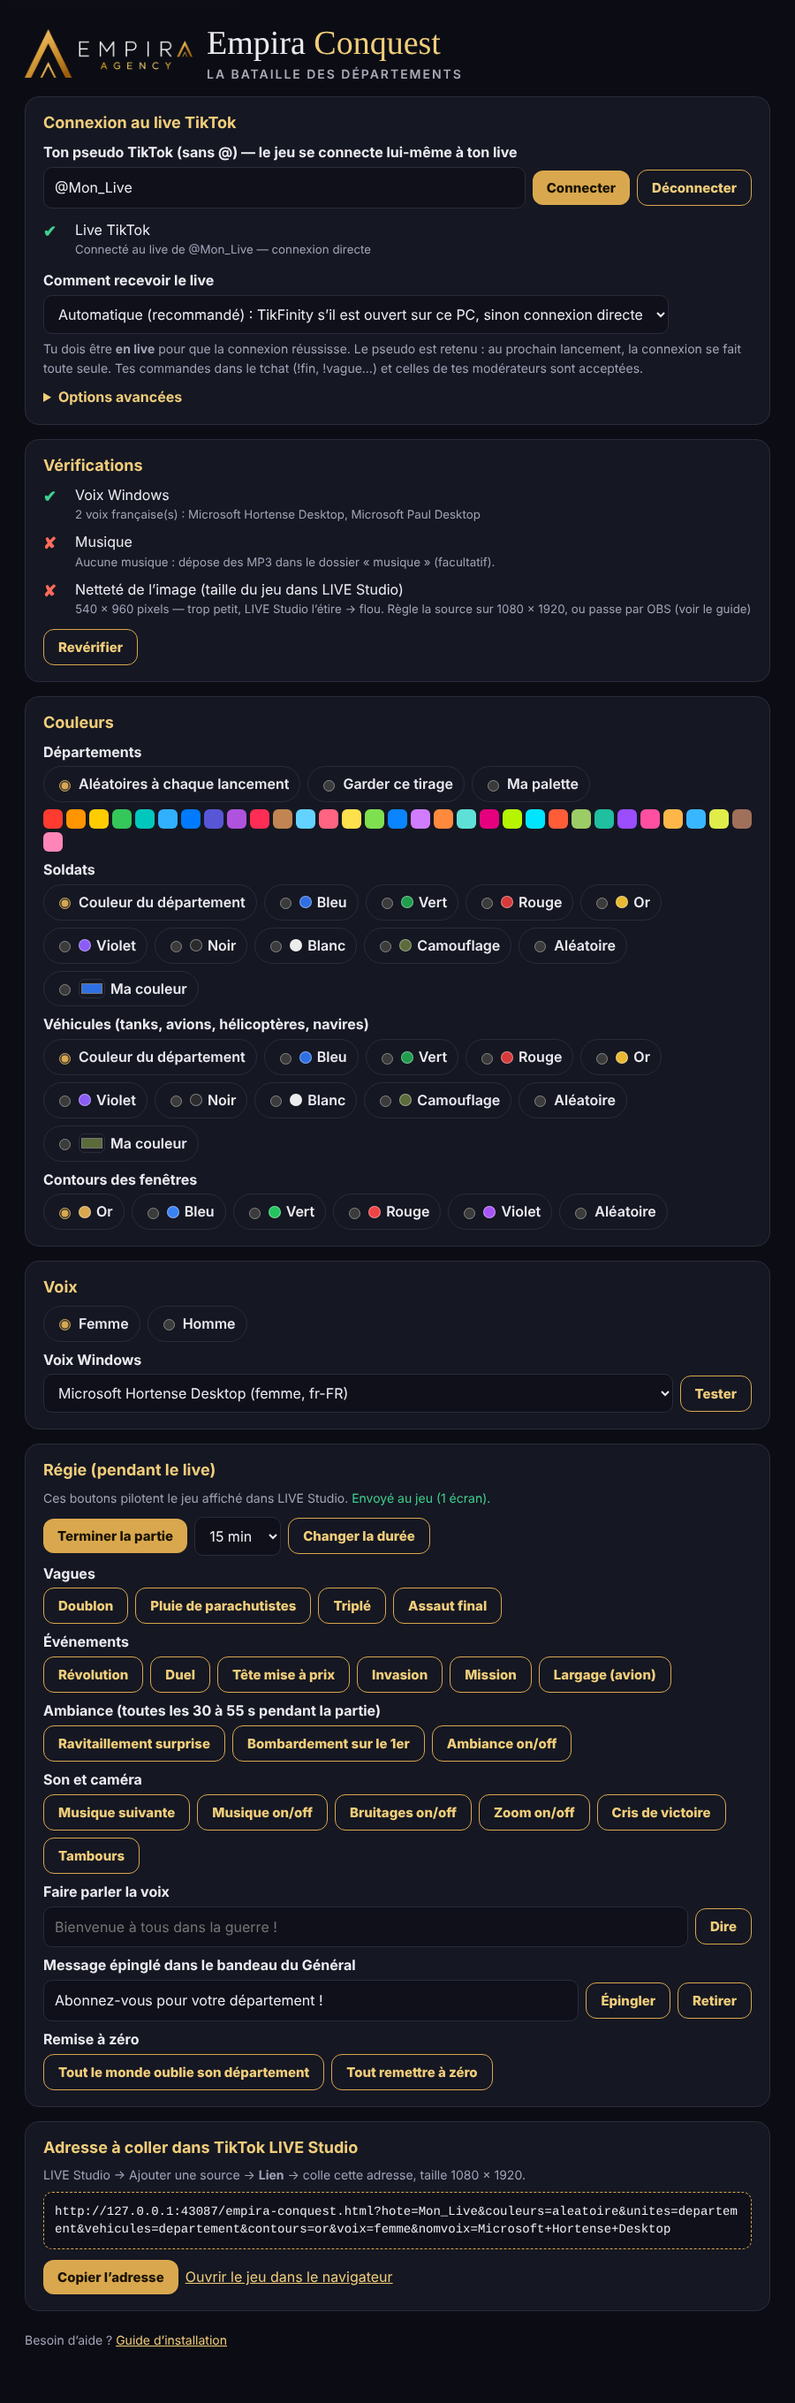
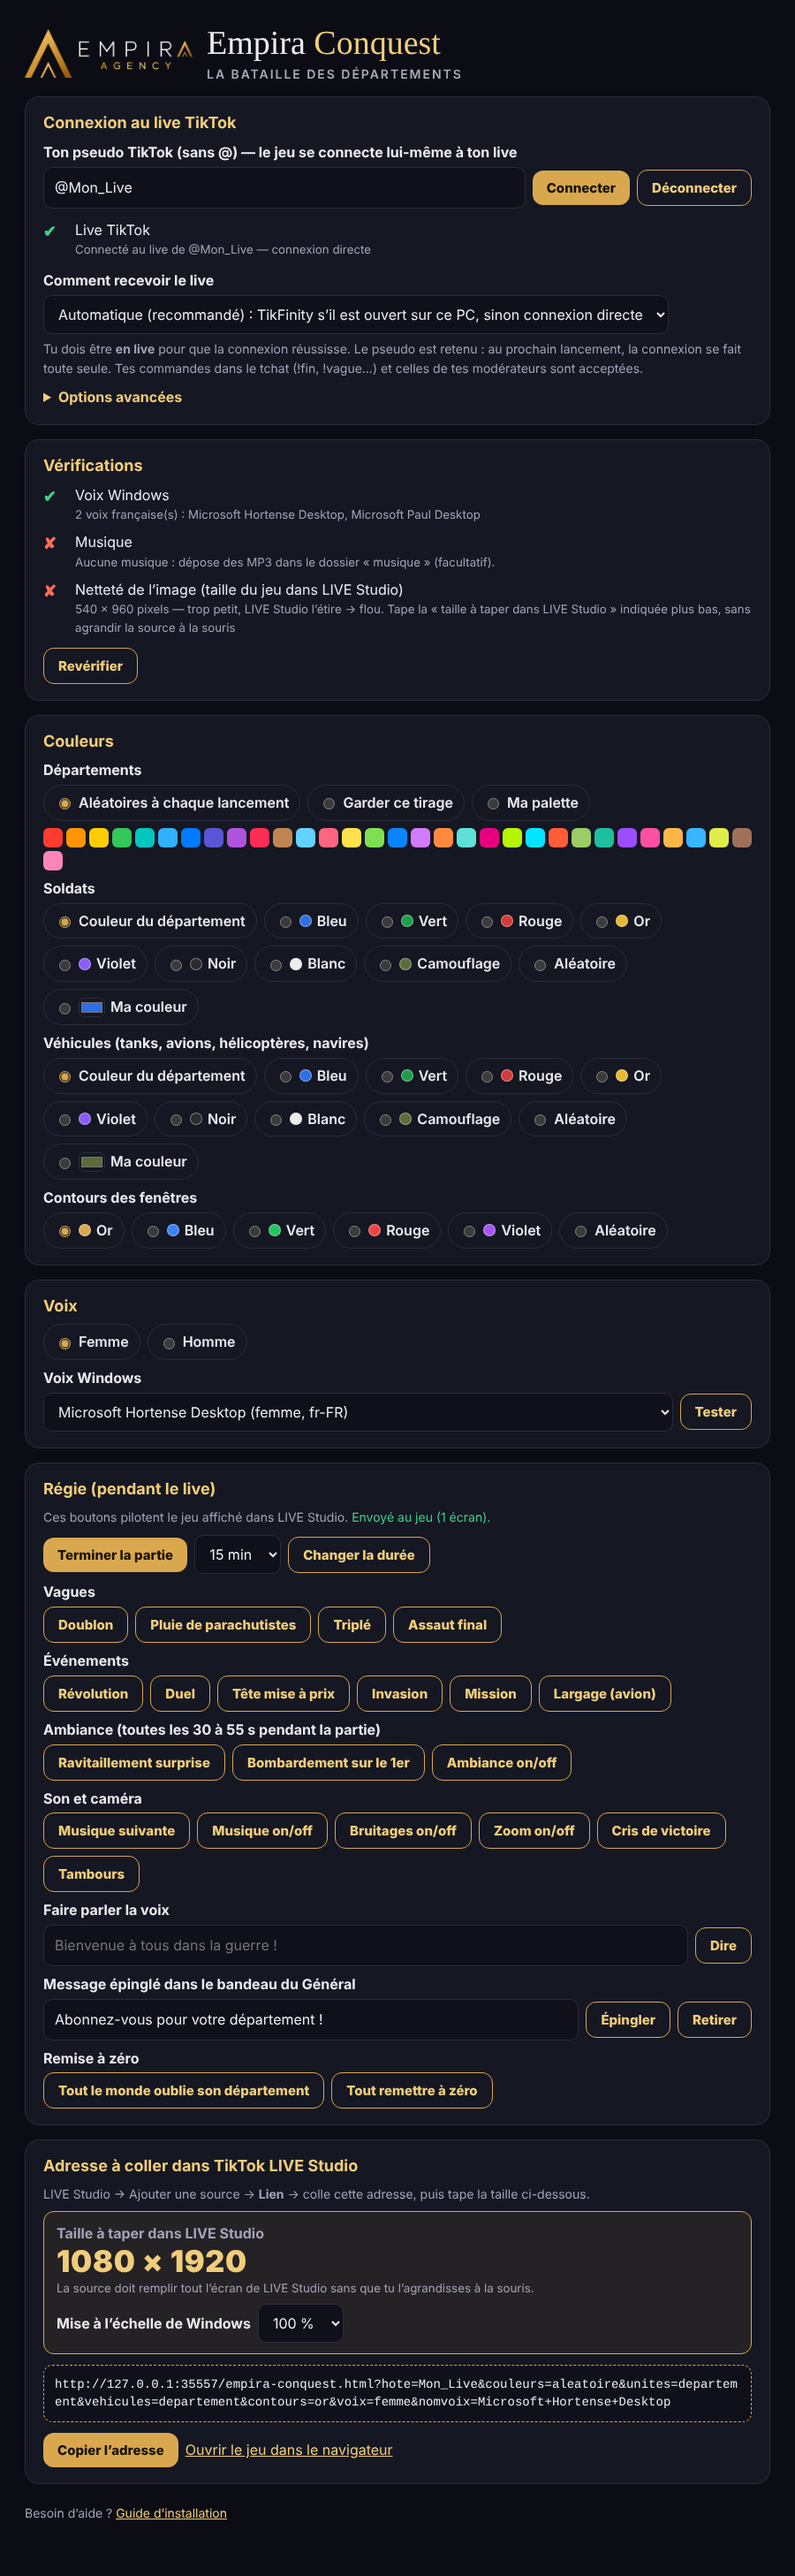
Taille de la source LIVE Studio calculée selon la mise à l'échelle de Windows (image nette sans étirer)
- la fenêtre de pilotage indique la taille à taper (1080 × 1920 × échelle de Windows), modifiable
- canevas plafonné à ×2 ; guide : tableau des tailles et consigne de ne jamais étirer la source

Claude-Session: https://claude.ai/code/session_01NCuRgus5nC27Z2ujoNiFEU

diff --git a/produit/src/demarrer.js b/produit/src/demarrer.js
@@ -162,7 +162,7 @@ async function verifierAffichage() {
     const h = Math.round(e.hauteur * (e.dpr || 1));
     const couche = e.largeur > e.hauteur;
     const ok = l >= 1000 && h >= 1700 && !couche;
-    const conseil = couche ? 'la source est en paysage : règle-la en 1080 × 1920 (portrait)' : !ok ? 'trop petit, LIVE Studio l’étire → flou. Règle la source sur 1080 × 1920, ou passe par OBS (voir le guide)' : 'net';
+    const conseil = couche ? 'la source est en paysage : règle-la en 1080 × 1920 (portrait)' : !ok ? 'trop petit, LIVE Studio l’étire → flou. Tape la « taille à taper dans LIVE Studio » indiquée plus bas, sans agrandir la source à la souris' : 'net';
     return { ok, texte: `${l} × ${h} pixels — ${conseil}` };
   });
   const ok = textes.every((t) => t.ok);
@@ -179,6 +179,23 @@ async function verifierMusique() {
 }
 
 // ------------------------------------------------------------------ couleurs et adresse
+
+// Taille de la source « Lien » : LIVE Studio réduit la source de la mise à l'échelle de Windows (125 %, 150 %…).
+// En tapant 1080 × 1920 multiplié par cette échelle, la source remplit l'écran sans être étirée : l'image reste nette.
+const ECHELLES = [1, 1.25, 1.5, 1.75, 2, 2.25, 2.5];
+function echelleWindows() {
+  const dpr = window.devicePixelRatio || 1;
+  return ECHELLES.reduce((a, b) => (Math.abs(b - dpr) < Math.abs(a - dpr) ? b : a));
+}
+function majTaille() {
+  const e = Number($('echelle').value) || 1;
+  const l = Math.round(1080 * e);
+  const h = Math.round(1920 * e);
+  $('tailleValeur').textContent = `${l} × ${h}`;
+  $('tailleExplication').textContent = e === 1
+    ? 'La source doit remplir tout l’écran de LIVE Studio sans que tu l’agrandisses à la souris.'
+    : `Windows est réglé à ${Math.round(e * 100)} % : avec 1080 × 1920, LIVE Studio afficherait la source à ${Math.round(100 / e)} % et tu devrais l’étirer, ce qui rend l’image floue. Avec ${l} × ${h}, elle remplit l’écran et reste nette. Ne l’agrandis jamais à la souris : si elle ne remplit pas tout, essaie l’échelle suivante.`;
+}
 
 function majAdresse() {
   const p = new URLSearchParams();
@@ -270,6 +287,18 @@ function init() {
   $('connecter').addEventListener('click', connecter);
   $('deconnecter').addEventListener('click', deconnecter);
   $('source').addEventListener('change', () => $('pseudo').value.trim() && connecter());
+  // échelle détectée sur ce PC (le navigateur doit être à 100 % de zoom), modifiable
+  $('echelle').value = String(memoire.echelle || echelleWindows());
+  majTaille();
+  $('echelle').addEventListener('change', () => {
+    memoire.echelle = Number($('echelle').value);
+    try {
+      localStorage.setItem(MEMOIRE, JSON.stringify(memoire));
+    } catch {
+      /* stockage indisponible */
+    }
+    majTaille();
+  });
   $('pseudo').addEventListener('keydown', (e) => e.key === 'Enter' && connecter());
   for (const b of document.querySelectorAll('button[data-cmd]')) b.addEventListener('click', () => commande(b.dataset.cmd, b.dataset.arg || ''));
   $('btnDuree').addEventListener('click', () => commande('duree', $('duree').value));

diff --git a/produit/src/demarrer.html b/produit/src/demarrer.html
@@ -26,6 +26,10 @@ input[type=text], select { width: 100%; padding: 10px 12px; border-radius: 10px;
 .choix label { margin: 0; display: inline-flex; align-items: center; gap: 6px; padding: 7px 12px; border-radius: 99px; border: 1px solid var(--trait); cursor: pointer; font-weight: 600; }
 .choix input { accent-color: var(--or); }
 input[type=color] { width: 30px; height: 22px; padding: 0; border: 1px solid var(--trait); border-radius: 6px; background: none; vertical-align: middle; }
+.taille { margin: 0 0 12px; padding: 12px 14px; border-radius: 12px; border: 1px solid var(--or); background: rgba(217, 168, 78, 0.08); }
+.taille span { display: block; font-weight: 700; color: var(--doux); }
+.taille b { display: block; font: 900 34px/1.2 var(--police, system-ui); color: var(--or-clair); letter-spacing: 0.02em; }
+.taille small { display: block; color: var(--doux); line-height: 1.4; }
 .pastille { width: 14px; height: 14px; border-radius: 50%; display: inline-block; border: 1px solid rgba(255, 255, 255, 0.4); }
 button { font: 800 15px 'Segoe UI', system-ui, sans-serif; padding: 10px 16px; border-radius: 12px; border: 0; background: var(--or); color: #1a1300; cursor: pointer; }
 button.discret { background: transparent; color: var(--or-clair); border: 1px solid var(--or); }
@@ -174,7 +178,14 @@ select { width: auto; }
 
   <section>
     <h2>Adresse à coller dans TikTok LIVE Studio</h2>
-    <p class="info" style="margin:0 0 8px">LIVE Studio → Ajouter une source → <b>Lien</b> → colle cette adresse, taille 1080 × 1920.</p>
+    <p class="info" style="margin:0 0 8px">LIVE Studio → Ajouter une source → <b>Lien</b> → colle cette adresse, puis tape la taille ci-dessous.</p>
+    <div class="taille" id="taille">
+      <span>Taille à taper dans LIVE Studio</span>
+      <b id="tailleValeur">1080 × 1920</b>
+      <small id="tailleExplication"></small>
+      <div class="ligne" style="margin-top:8px"><label for="echelle" style="margin:0">Mise à l’échelle de Windows</label>
+        <select id="echelle"><option value="1">100 %</option><option value="1.25">125 %</option><option value="1.5">150 %</option><option value="1.75">175 %</option><option value="2">200 %</option><option value="2.25">225 %</option><option value="2.5">250 %</option></select></div>
+    </div>
     <div class="adresse" id="adresse"></div>
     <p class="ligne" style="margin:12px 0 0"><button id="copier" type="button">Copier l’adresse</button><a id="ouvrir" href="#" target="_blank" rel="noopener">Ouvrir le jeu dans le navigateur</a><span id="copie" class="ok" role="status"></span></p>
   </section>

diff --git a/produit/GUIDE.html b/produit/GUIDE.html
@@ -52,7 +52,17 @@ table { border-collapse: collapse; width: 100%; } td { border-top: 1px solid #2a
 
 <h2>Image nette sur TikTok</h2>
 <p>Le jeu se dessine automatiquement à la taille à laquelle il est affiché. Dans la fenêtre de pilotage, la ligne <b>« Netteté de l’image »</b> indique la taille réelle à laquelle LIVE Studio affiche le jeu : il faut <b>1080 × 1920</b>. Si elle est plus petite, LIVE Studio étire une petite image et tout devient flou ; le jeu l’affiche aussi en rouge en haut de l’écran pendant 25 secondes.</p>
-<h3>Si c’est déjà flou dans LIVE Studio : passer par OBS (gratuit)</h3>
+<h3>La bonne taille à taper dans LIVE Studio</h3>
+<p>Si Windows est réglé à 125 % ou 150 % (Paramètres → Système → Écran → Mise à l’échelle), LIVE Studio réduit la source « Lien » d’autant : avec 1080 × 1920 elle n’occupe qu’une partie de l’écran, et l’agrandir à la souris rend l’image floue. Tape plutôt la taille multipliée par l’échelle de Windows — la fenêtre de pilotage la calcule pour toi :</p>
+<table>
+  <tr><td>Windows à 100 %</td><td><b>1080 × 1920</b></td></tr>
+  <tr><td>Windows à 125 %</td><td><b>1350 × 2400</b></td></tr>
+  <tr><td>Windows à 150 %</td><td><b>1620 × 2880</b></td></tr>
+  <tr><td>Windows à 175 %</td><td><b>1890 × 3360</b></td></tr>
+  <tr><td>Windows à 200 %</td><td><b>2160 × 3840</b></td></tr>
+</table>
+<p>La source doit alors remplir l’écran toute seule : <b>ne l’agrandis jamais à la souris</b>. Si elle ne remplit toujours pas tout, essaie la ligne suivante du tableau. Le jeu se dessine net à n’importe laquelle de ces tailles.</p>
+<h3>Si c’est encore flou dans LIVE Studio : passer par OBS (gratuit)</h3>
 <p>La source « Lien » de LIVE Studio affiche parfois les pages web en petit avant de les étirer. La solution utilisée par la plupart des jeux interactifs :</p>
 <ol>
   <li>Installe <b>OBS Studio</b> (gratuit, obsproject.com).</li>

diff --git a/produit/src/rendu.js b/produit/src/rendu.js
@@ -91,7 +91,7 @@ export class Rendu {
    * mise à l'échelle de Windows), au lieu d'une image fixe de 1080 × 1920 agrandie (floue à 125 % ou 150 %).
    */
   adapter(q) {
-    const nq = Math.max(0.5, Math.min(3, Math.round(q * 100) / 100));
+    const nq = Math.max(0.5, Math.min(2, Math.round(q * 100) / 100));
     if (nq === this.q && this.canvas.width === Math.round(LARGEUR * nq)) return;
     this.q = nq;
     this.canvas.width = Math.round(LARGEUR * nq);

diff --git a/docs/09-version-vendue.md b/docs/09-version-vendue.md
@@ -106,6 +106,10 @@ Interprétations (le cahier des charges ne tranchait pas) :
   photos de profil en 720 px (avatarMedium) au lieu de la miniature de 100 px ; textes de la carte et petites
   légendes agrandis et contourés pour rester lisibles après la compression de TikTok. Le guide liste les réglages
   de LIVE Studio (source 1080 × 1920 non étirée, 1080p, débit élevé).
+- **Taille de la source** : LIVE Studio réduit la source « Lien » de la mise à l'échelle de Windows (constaté par
+  l'acheteur : la source apparaît plus petite que la taille tapée et il faut l'étirer, d'où le flou). La fenêtre de
+  pilotage calcule la taille à taper (1080 × 1920 × échelle, détectée via `devicePixelRatio`, modifiable) ; le jeu se
+  dessine net à toute taille 9:16 (résolution du canevas plafonnée à ×2).
 - **Diagnostic de netteté** : chaque écran de jeu signale au serveur la taille à laquelle il est affiché (`POST /ecran`,
   `GET /ecrans`) ; la fenêtre de pilotage l'affiche (« Netteté de l'image ») et le jeu avertit 25 s à l'écran si elle
   est sous 1080 × 1920. Si la source « Lien » de LIVE Studio rend la page en petit (bug signalé par des éditeurs
